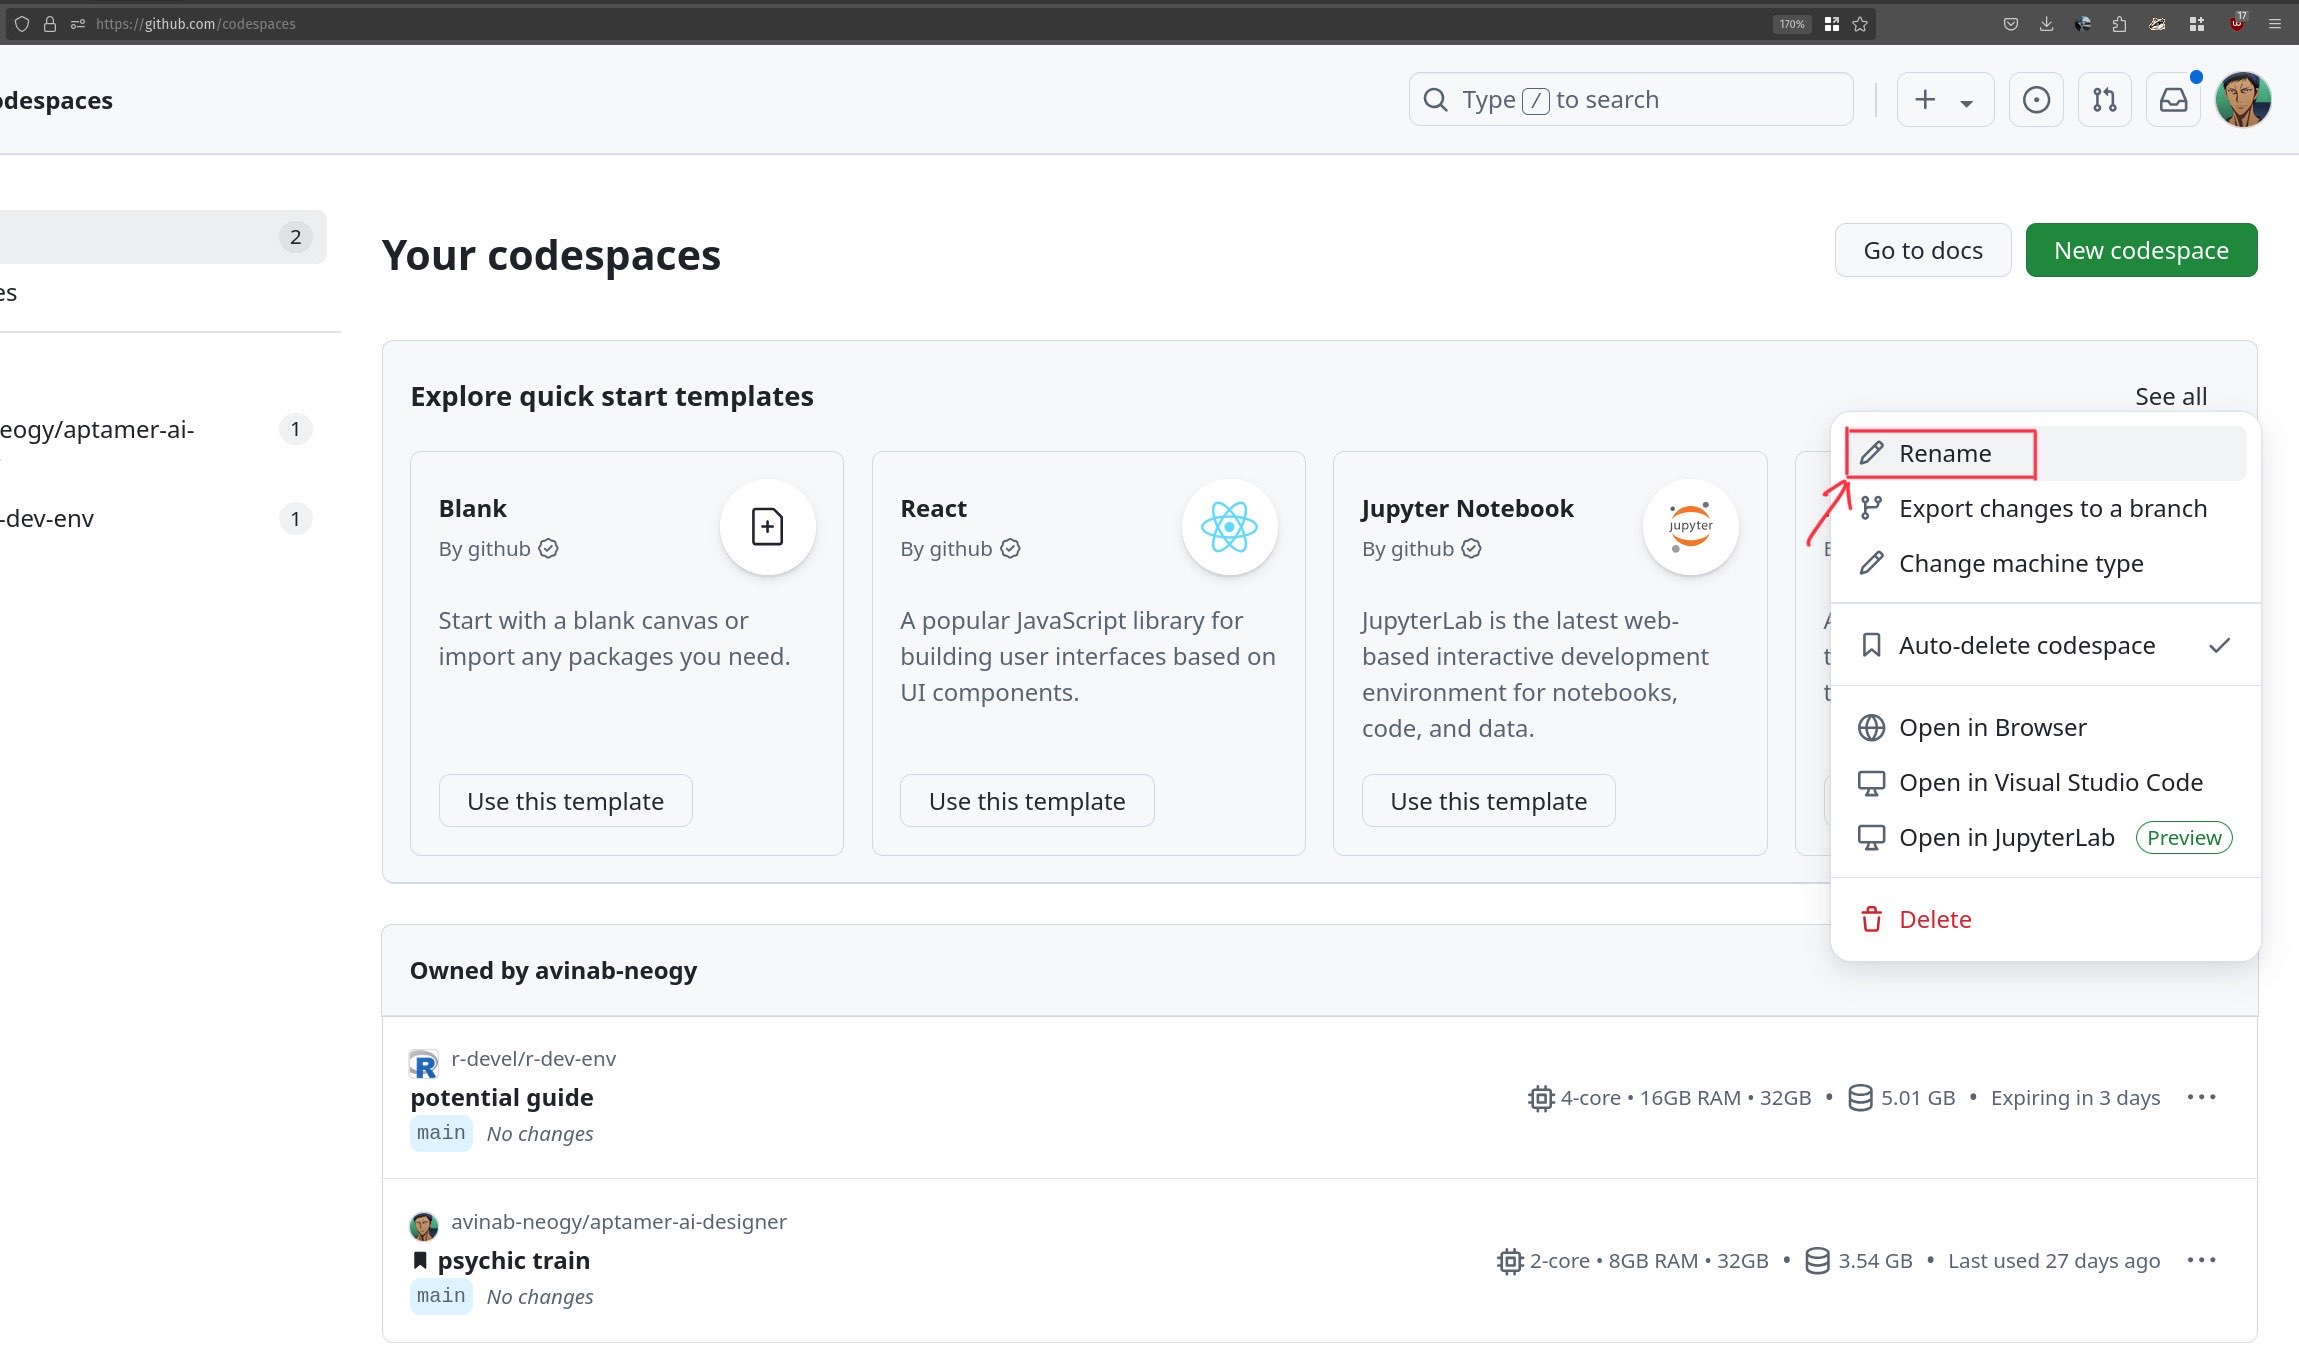
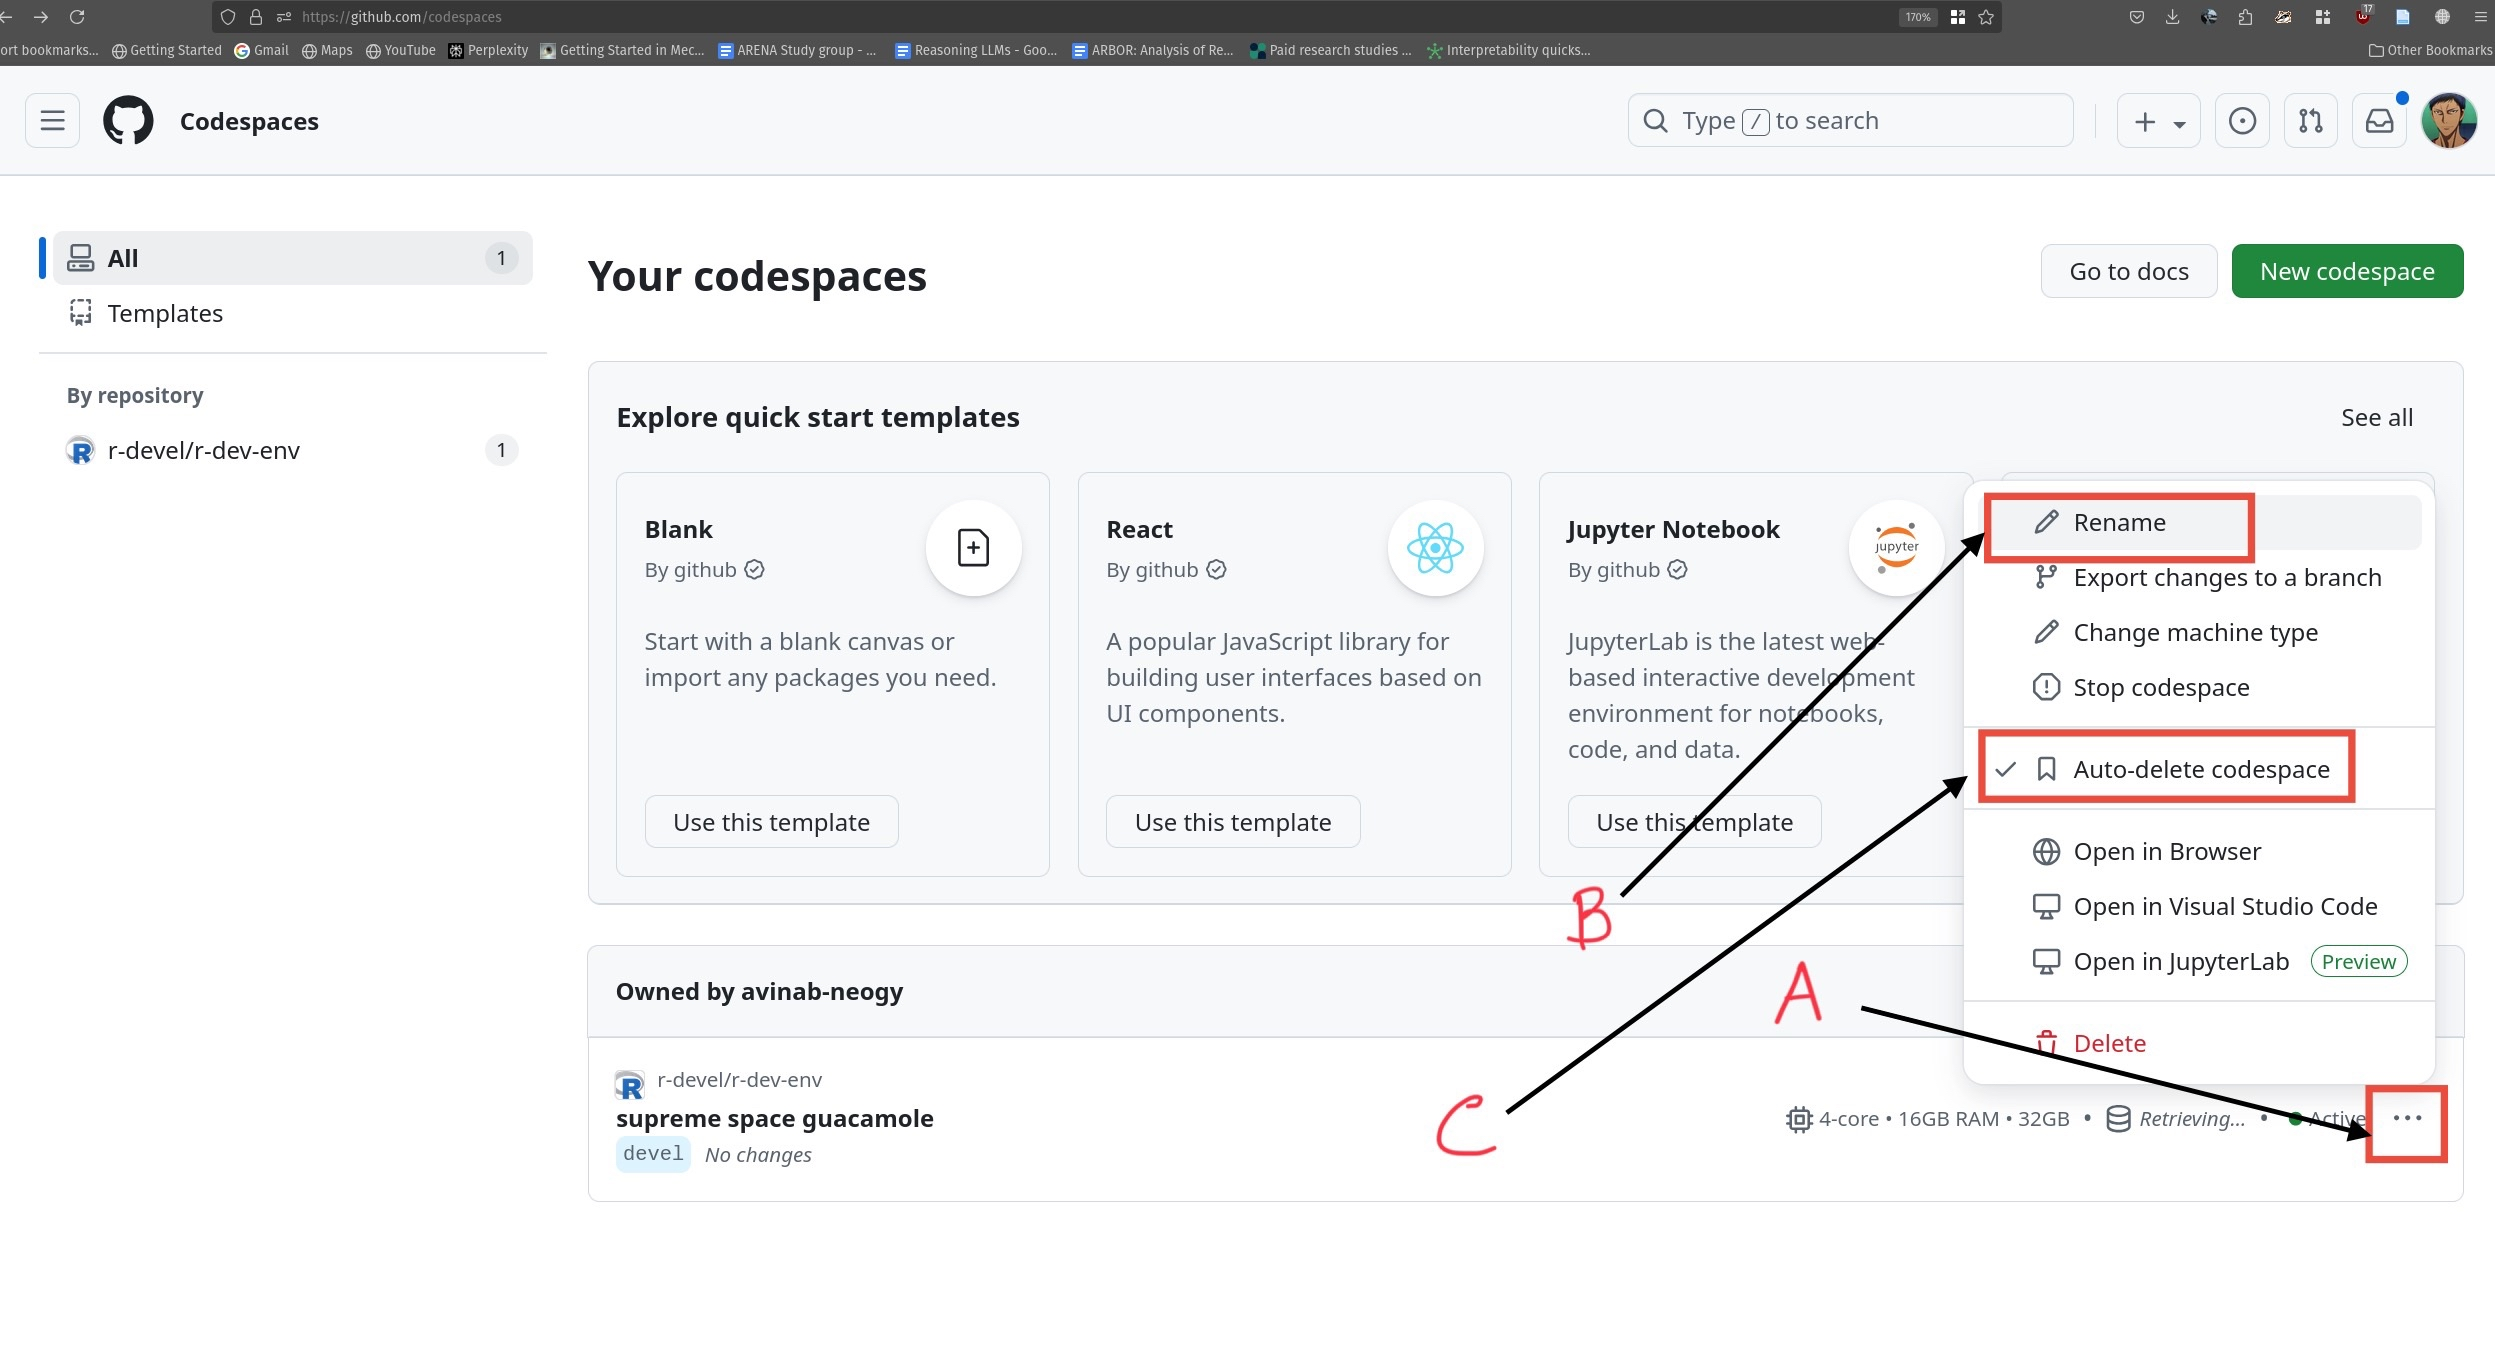
added how to turn off auto-delete in codespaces

diff --git a/docs/container_setup/github_codespace/creating_codespace.md b/docs/container_setup/github_codespace/creating_codespace.md
@@ -21,21 +21,23 @@ GitHub Codespaces' button and then click the green 'Create Codespace' button.
 3. You will be taken to a VS Code editor within your browser.
 ![codespace](../../assets/rdev3.png)
 
-4. Rename your codespace for easier identification:
+4. Rename your codespace and manage auto-delete for easier identification and to
+   prevent accidental removal:
 
     By default, your codespace will have a randomly generated name. Renaming it to
     something descriptive — such as referencing the issue or feature you’re working
-    on makes it much easier to manage your codespaces:
+    on makes it much easier to manage your codespaces. You can also disable auto-delete to ensure your codespace isn't removed unexpectedly:
 
-    - Open your [GitHub Codespaces dashboard](https://github.com/codespaces) (<https://github.com/codespaces>s>) in
+    - Open your [GitHub Codespaces dashboard](https://github.com/codespaces) (<https://github.com/codespaces>) in
     your browser.
     - Find the codespace you just created (it will show the repository name and
     the current random display name).
-    - Click the ellipsis (**...**) next to your codespace to open the options menu.
-    - Select **Rename** from the dropdown.
+    - A: Click the ellipsis (**...**) next to your codespace to open the options menu.
+    - B: Select **Rename** from the dropdown.
     - Enter a descriptive new display name, e.g.,
     `Bug 7084 - text() recycling problems` or
     `Ignore deprecated/defunct fns in checkS3methods`, and confirm.
+    - C: In the same options menu, click on **Auto-delete codespace** to toggle off auto-delete (remove the check mark). This will prevent the codespace from being deleted automatically.
 
     ![rename codespace](../../assets/rdev3_5.png)
 
@@ -43,3 +45,4 @@ GitHub Codespaces' button and then click the green 'Create Codespace' button.
 
         You can rename your codespace at any time. The display name is
         for your convenience and **does not** affect your code or environment.
+ 
